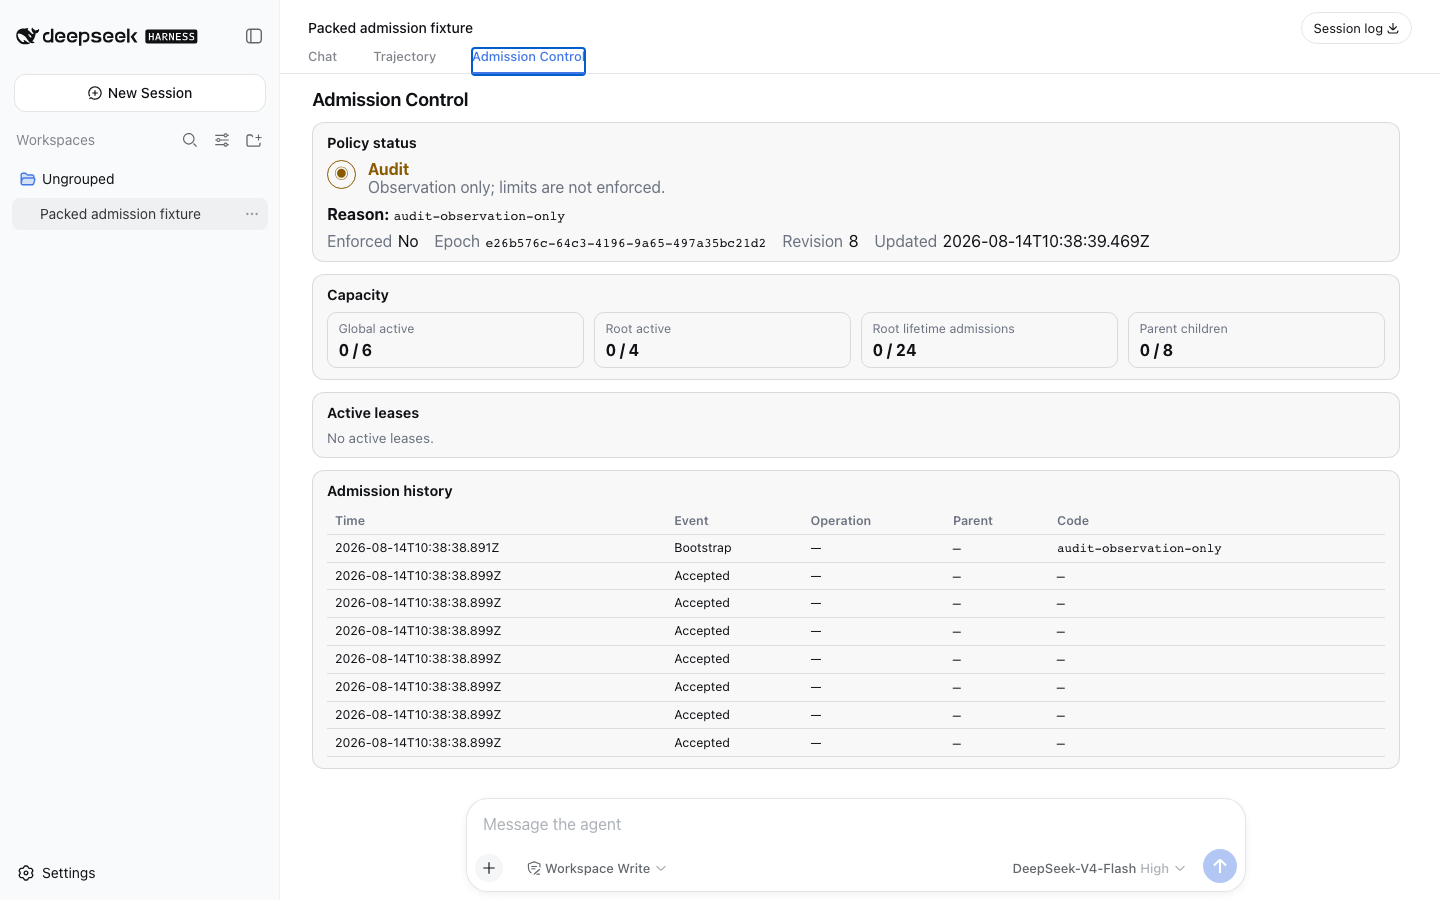
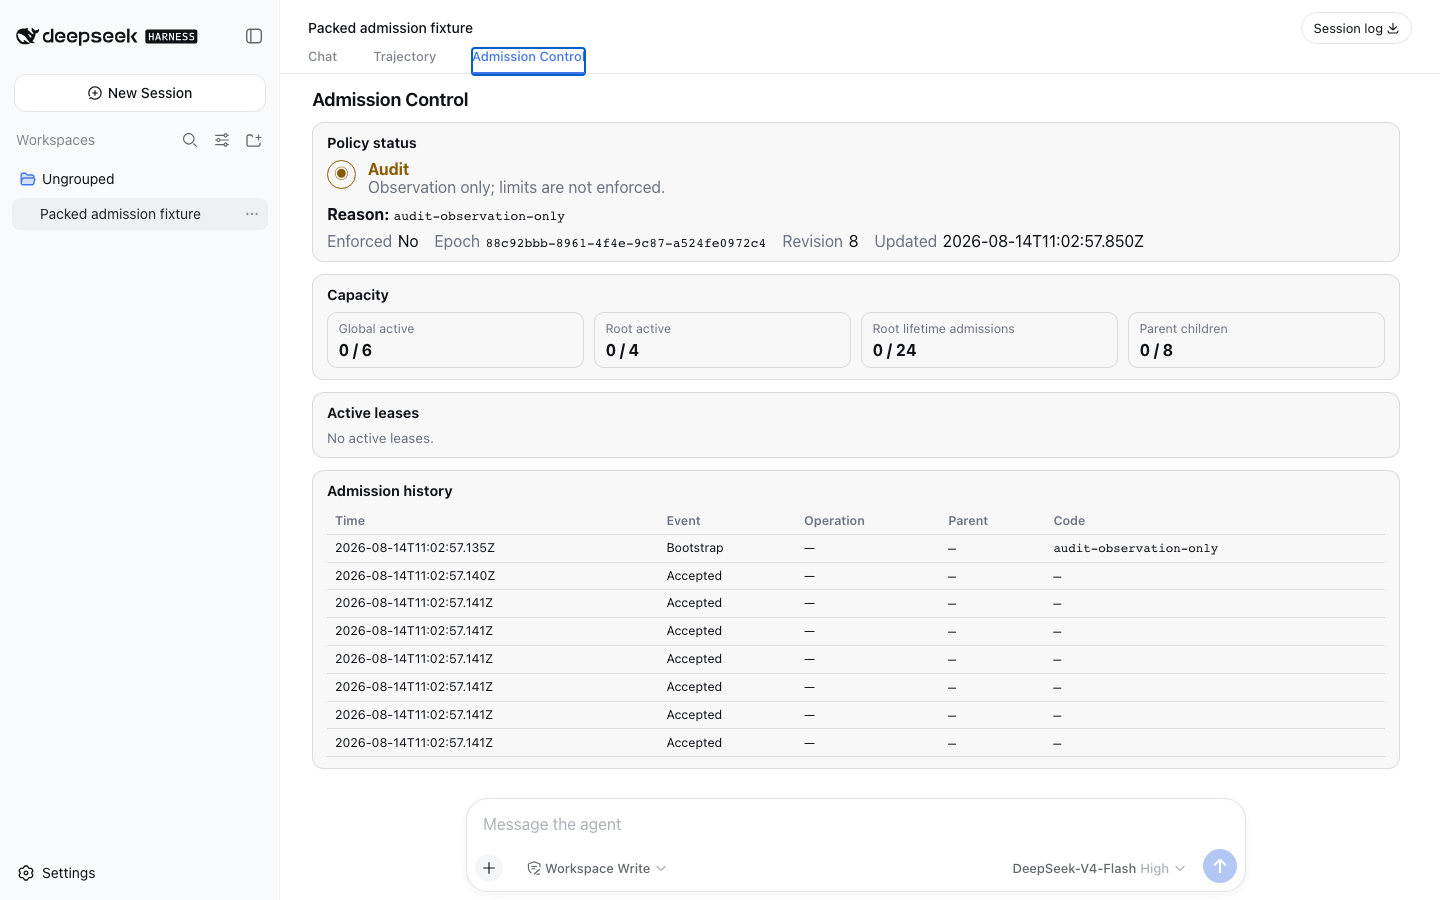
fix: make packed CI cross-platform

diff --git a/tests/packed-install-command.spec.ts b/tests/packed-install-command.spec.ts
@@ -1,6 +1,9 @@
 import { describe, expect, it } from 'vitest'
 
-import { resolvePnpmExecutable } from '../scripts/packed-install.mts'
+import {
+  resolveCommandInvocation,
+  resolvePnpmExecutable,
+} from '../scripts/packed-install.mts'
 
 describe('packed-install pnpm executable', () => {
   it('uses the Windows command shim on win32', () => {
@@ -15,5 +18,17 @@ describe('packed-install pnpm executable', () => {
   it('honours an explicit non-empty executable override', () => {
     expect(resolvePnpmExecutable({ DSH_PNPM_BIN: '/tooling/pnpm-wrapper' }, 'win32'))
       .toBe('/tooling/pnpm-wrapper')
+  })
+
+  it('runs Windows command shims through ComSpec instead of spawning them directly', () => {
+    expect(resolveCommandInvocation(
+      'pnpm.cmd',
+      ['pack:plugin'],
+      { ComSpec: 'C:\\Windows\\System32\\cmd.exe' },
+      'win32',
+    )).toEqual({
+      executable: 'C:\\Windows\\System32\\cmd.exe',
+      args: ['/d', '/s', '/c', 'pnpm.cmd', 'pack:plugin'],
+    })
   })
 })

diff --git a/CHANGELOG.md b/CHANGELOG.md
@@ -17,7 +17,11 @@ candidates do not imply npm availability or upstream adoption.
 - Defined `perRootAdmittedTotal` as a non-refundable, non-resetting v0.1
   lifetime fuse and documented zero-patch Strict as the productization gate.
 - Fixed packed-install pnpm command resolution on Windows by selecting
-  `pnpm.cmd`, while preserving an explicit `DSH_PNPM_BIN` override.
+  `pnpm.cmd`, routing command shims through `cmd.exe`, and preserving an
+  explicit `DSH_PNPM_BIN` override.
+- Enabled the reviewed, exact-lock `node-pty` Linux native build and
+  `dsh-subprocess-local` helper-permission scripts required by the packed stock
+  Web acceptance gate.
 
 ## 0.1.0-rc.1 — 2026-08-14
 
